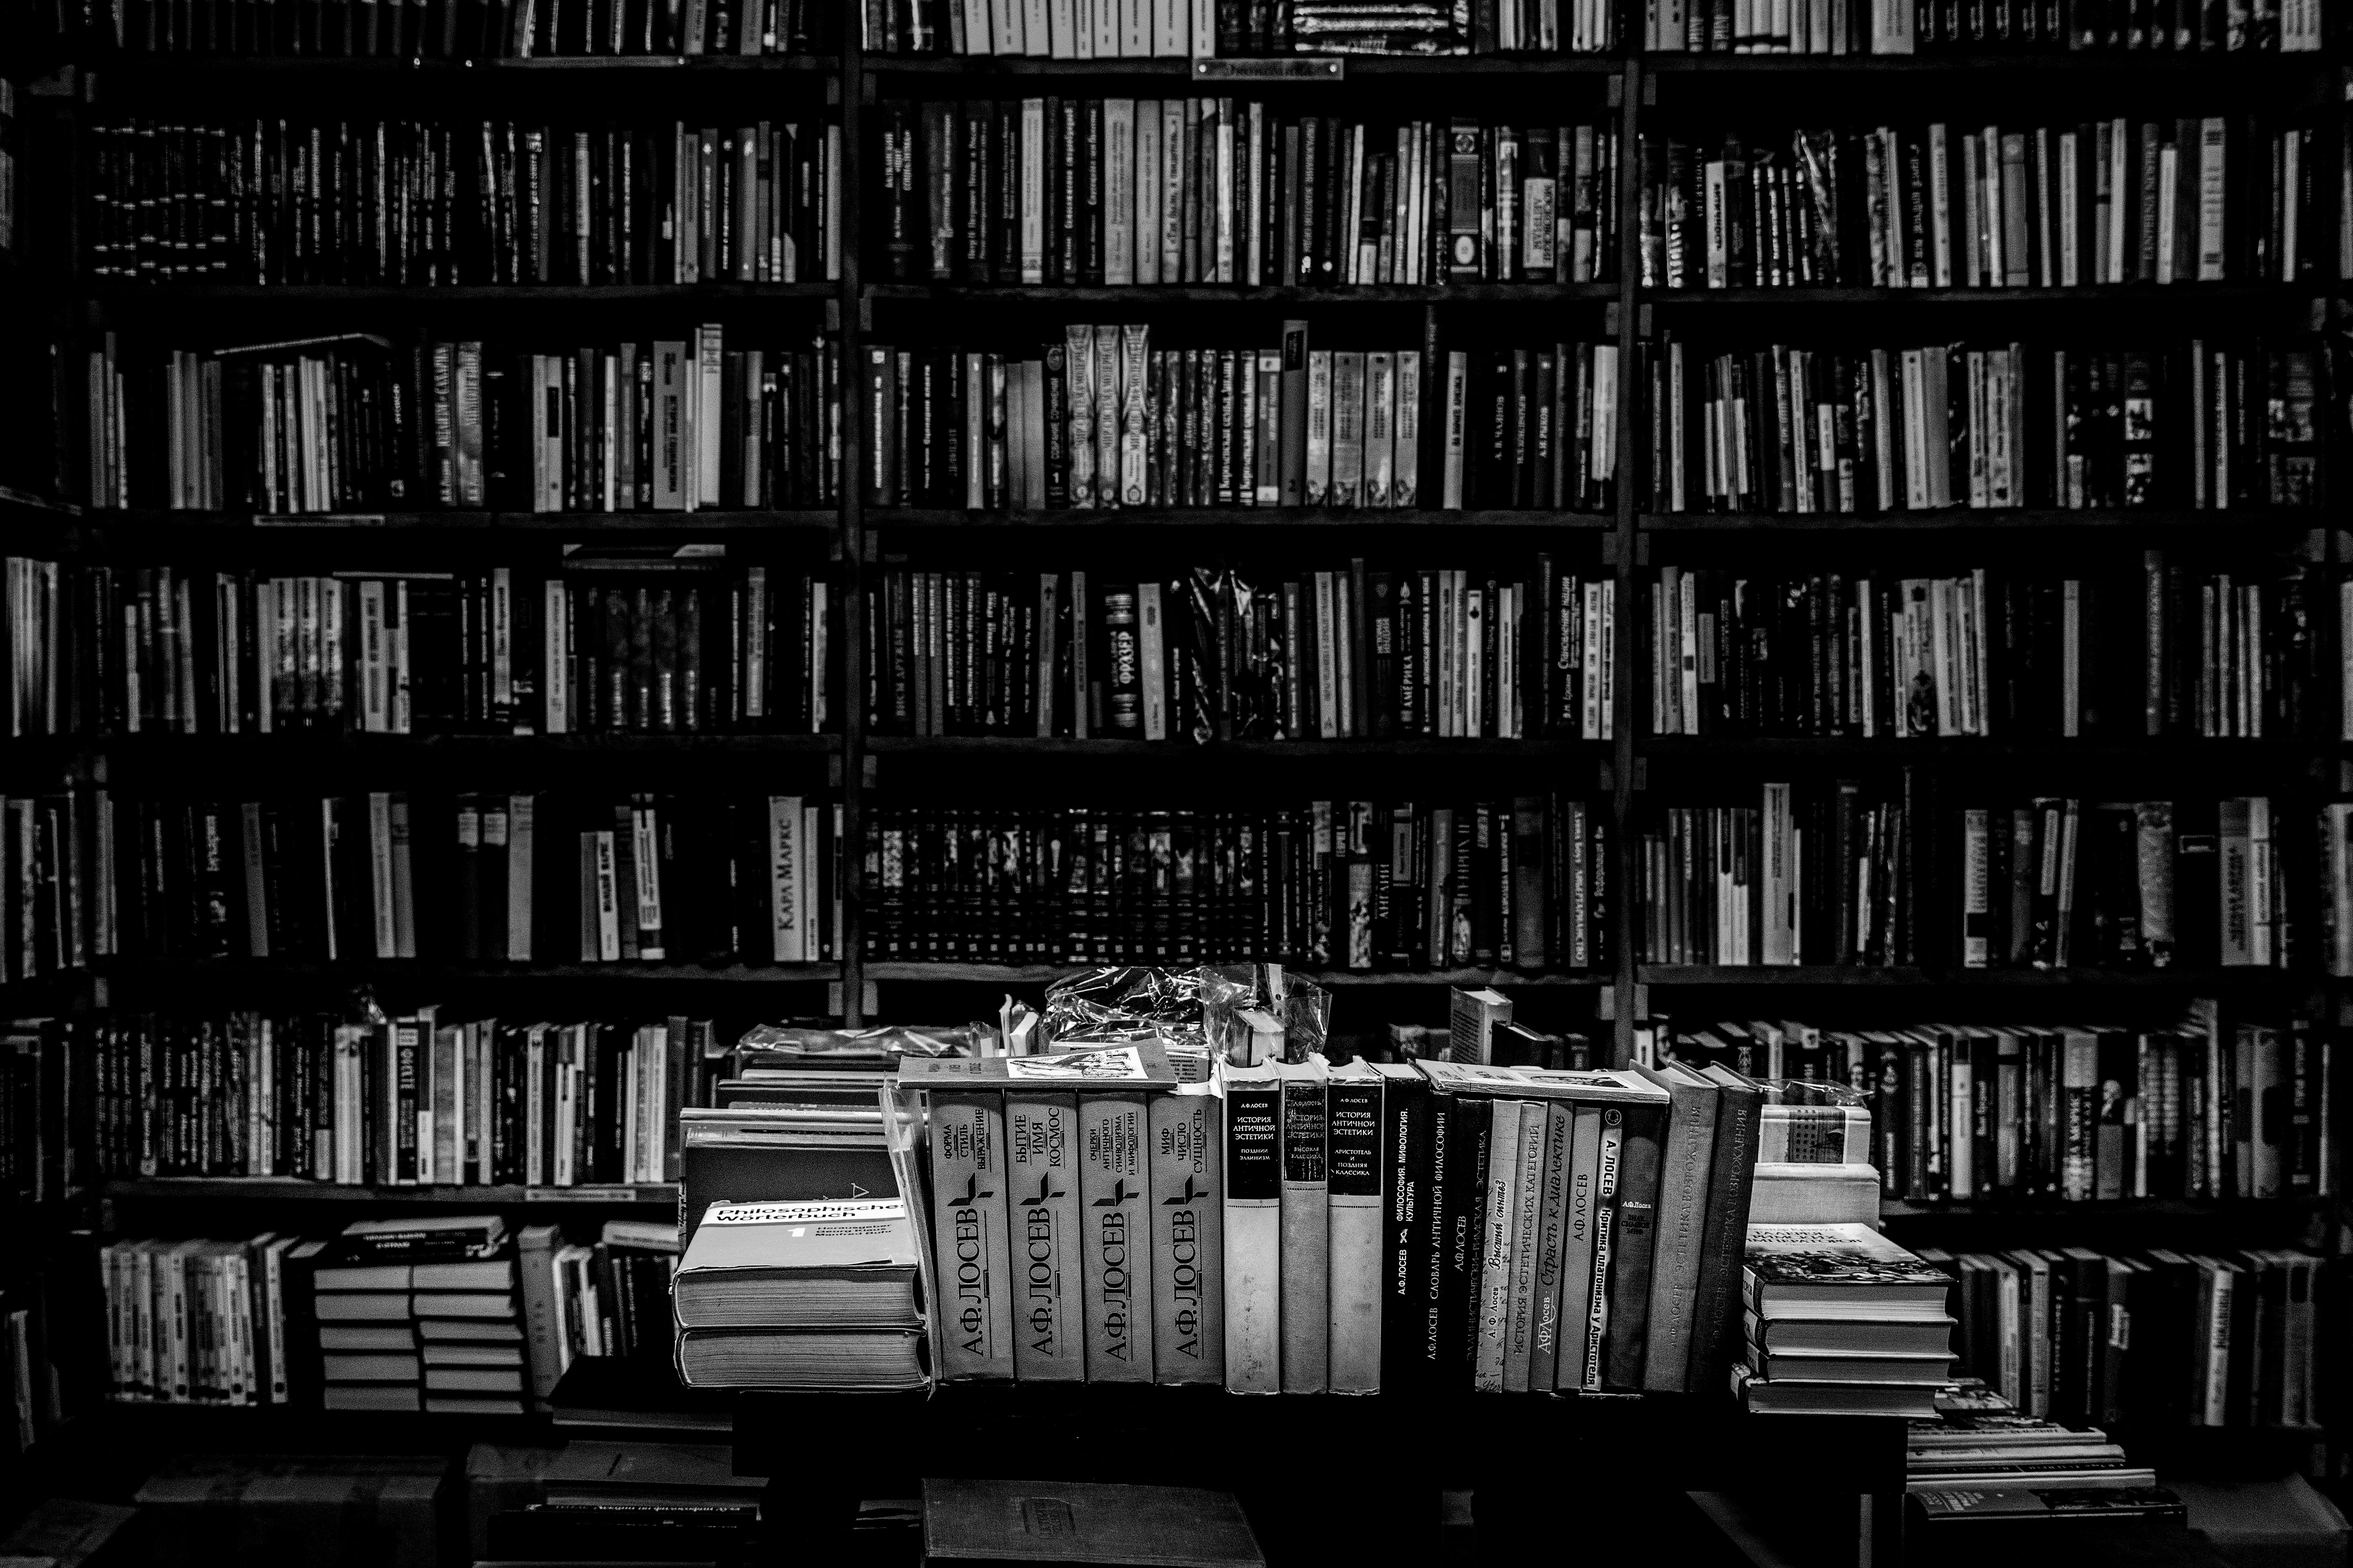
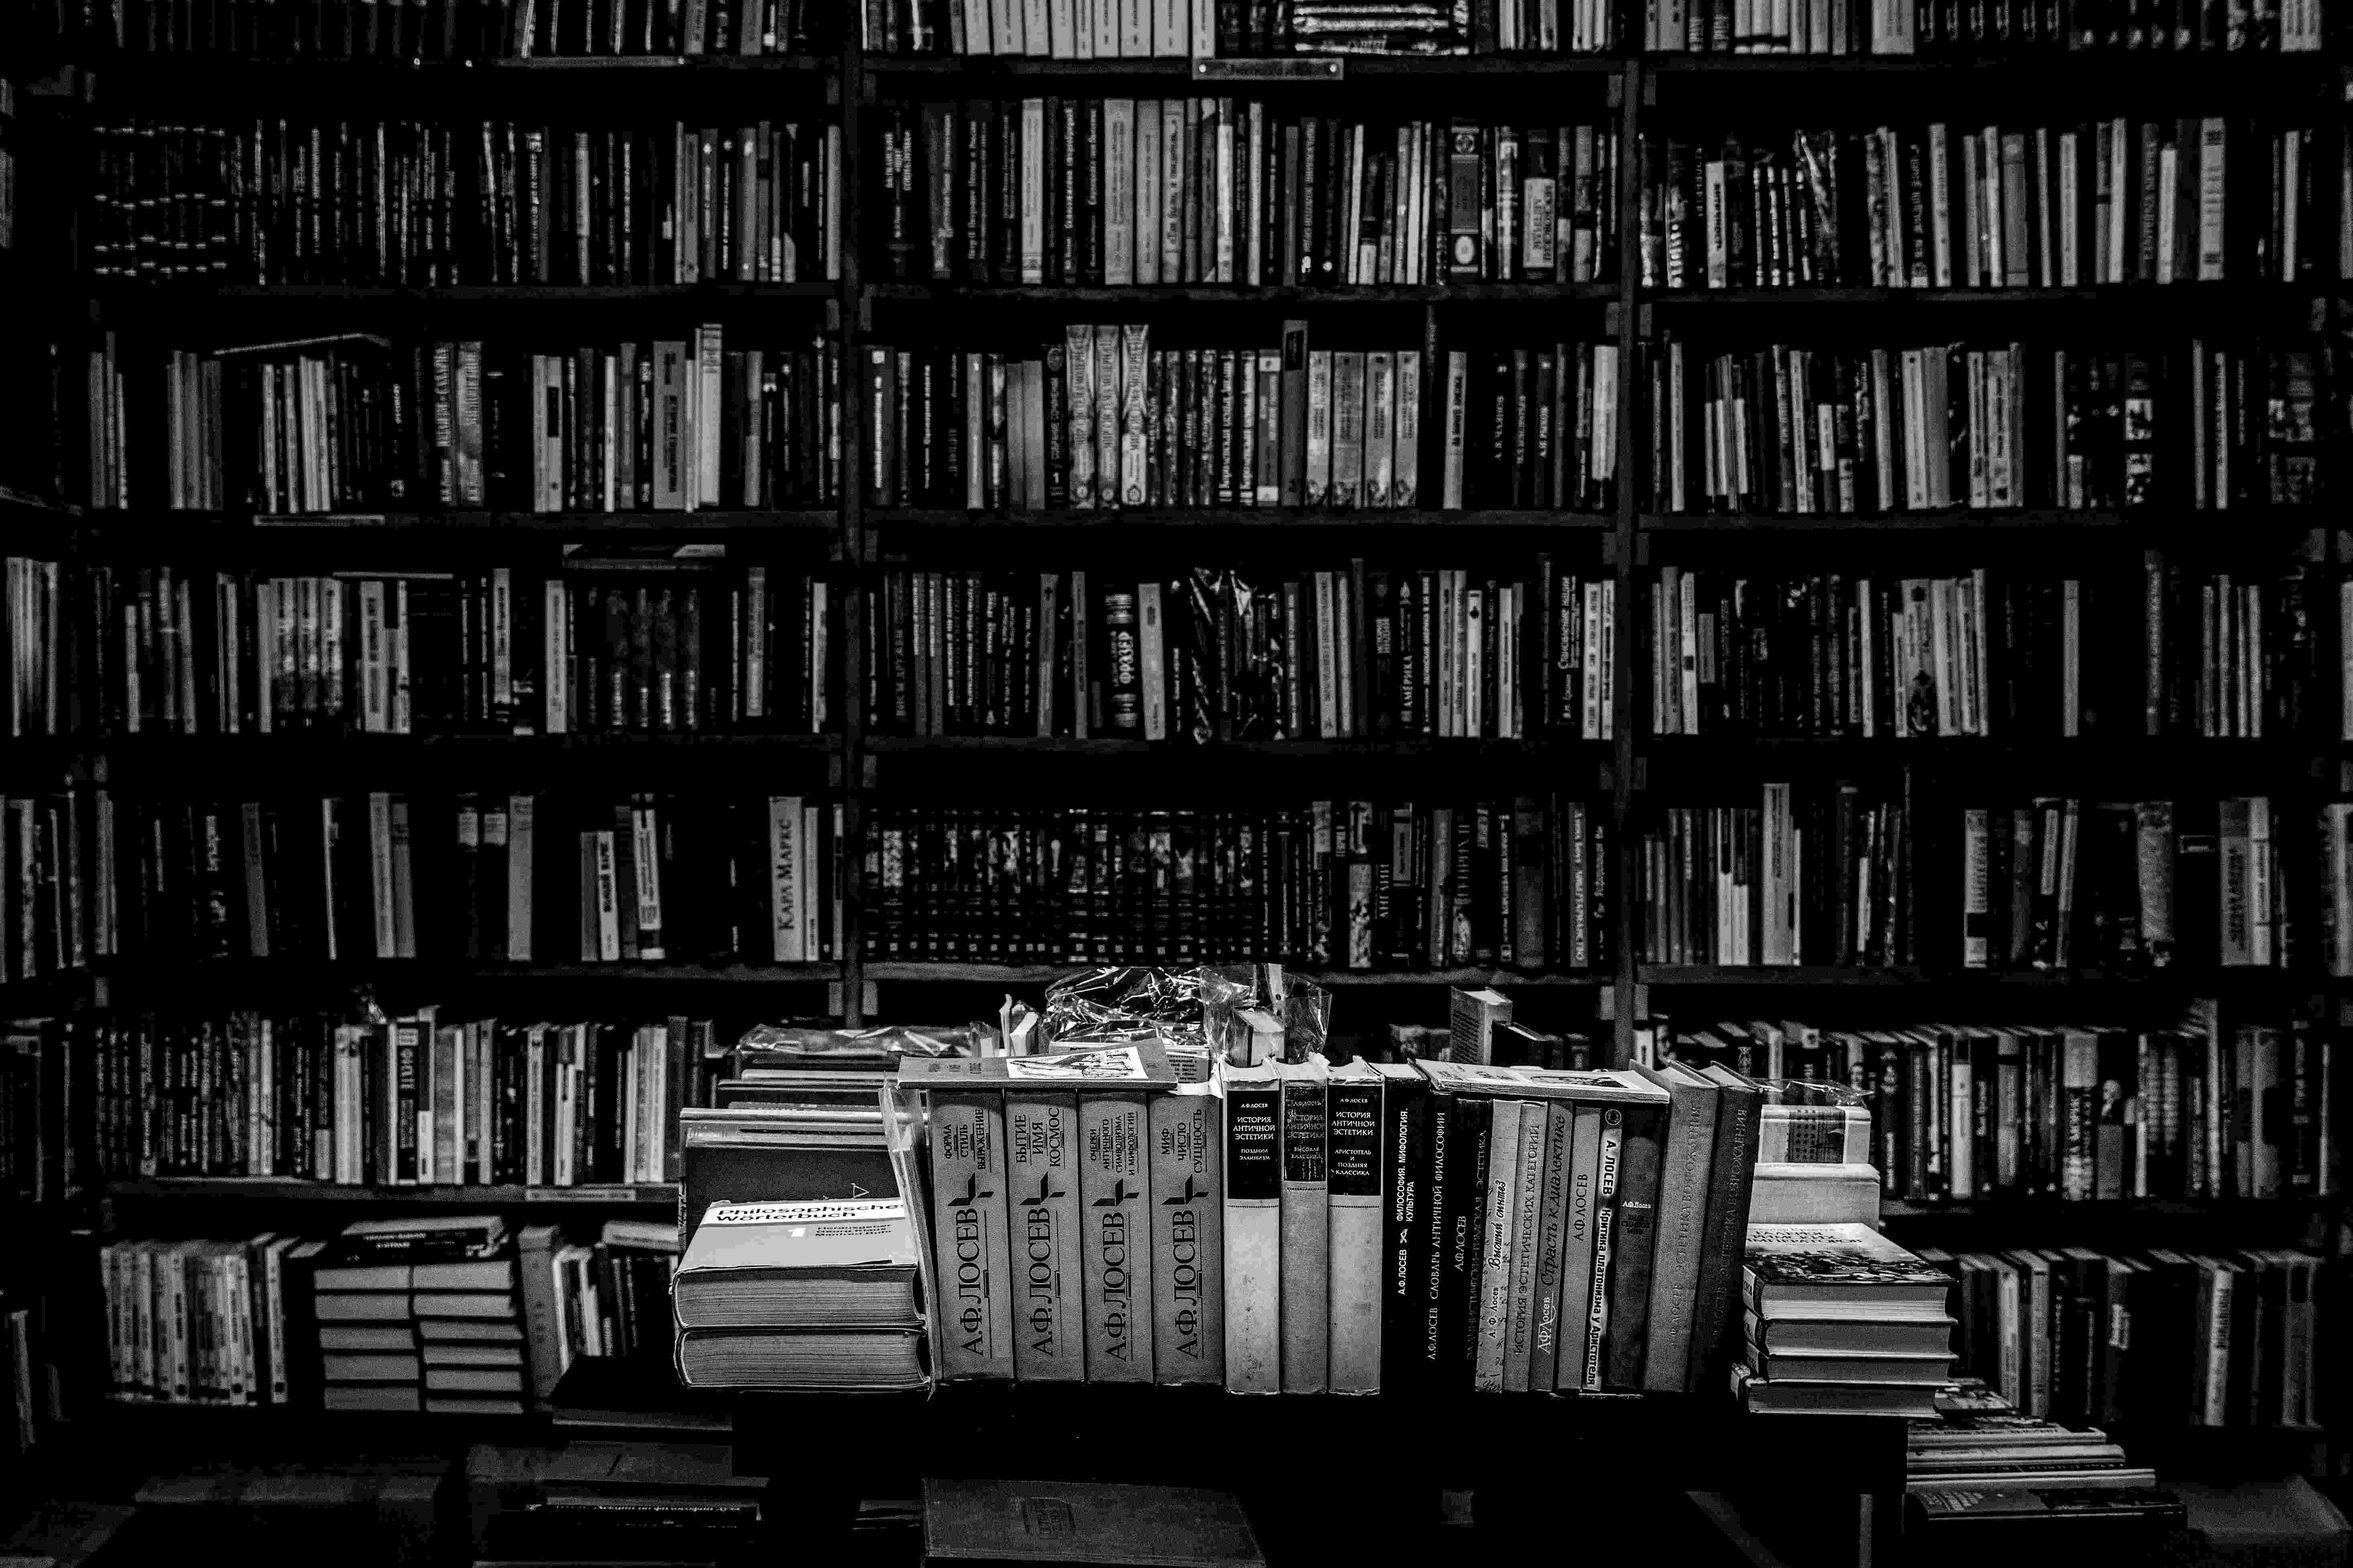
Minimum of memory for img and start worked on 'writings'

diff --git a/css/wri.css b/css/wri.css
@@ -72,66 +72,6 @@ nav ul li a{
   display: none;
 }
 
-/*BACKGROUND*/
-section.back{
-  background: url(../img/bg1.jpg) no-repeat;
-  background-size: cover;
-  height: 40vw;
-  width: 100%;
-  position: absolute;
-  padding: 0;
-  margin-top-top: 90px;
-  margin-top: 80px;
-}
-
-p.blocktext{
-  margin: 0;
-  color: black;
-  background-color: white;
-  font-size: 30px;
-  position: absolute;
-  top: 50%;
-  left: 50%;
-  margin-right: -50%;
-  transform: translate(-50%, -50%);
-  font-family: 'Hind Madurai', sans-serif;
-}
-
-/*CONTENT*/
-.content{
-  display: flex;
-  justify-content: center;
-  flex-shrink: 1;
-  justify-content: space-around;
-  padding-top: 100px;
-}
-
-.blocktext{
-  margin-top: 45%;
-  margin-left: 10%; 
-  padding: 5px; 
-  float: left; 
-}
-
-.blocktext_content{
-  margin-top: 45%;
-  margin-left: 10%; 
-  padding: 5px; 
-  float: left; 
-  width: 500px;
-  font-family: 'Hind Madurai', sans-serif;
-  display: flex;
-}
-
-.buttontext {
-  margin-top: 45%;
-  width: 400px; 
-  float: right; 
-  margin-right: 5%;
-  height: 200px;
-}
-
-
 /*ADAPTIVE FORM*/
 @media (max-width: 952px){
   label.logo{
@@ -197,77 +137,28 @@ p.blocktext{
    }
 
 }
-/*ADAPTIVE FORM*/
 
-@media (max-width: 361){
-  p.blocktext{
-    font-size: 1px;
-}
-}
-/*BUTTONS*/
-
-.connection{
-  color: #000 !important;
-  display: block;
+/*BACKGROUND*/
+section.back{
+  background: url(../img/bg3.jpg) no-repeat;
+  background-size: cover;
+  height: 40vw;
   width: 100%;
-  height: 100%;
-}
-
-.connection:hover{
-  color: #000 !important;
-  text-decoration: none;
-}
-
-.custom-btn {
-  width: 170px;
-  height: 40px;
-  color: #fff;
-  border-radius: 5px;
-  padding: 10px 25px;
-  font-family: 'Lato', sans-serif;
-  font-weight: 500;
-  background: transparent;
-  cursor: pointer;
-  transition: all 0.3s ease;
-  position: relative;
-  display: inline-block;
-  box-shadow:inset 2px 2px 2px 0px rgba(255,255,255,.5),
-   7px 7px 20px 0px rgba(0,0,0,.1),
-   4px 4px 5px 0px rgba(0,0,0,.1);
-}
-   
-.btn-16 {
-  border: none;
-  color: #000;
-}
-
-.btn-16:after {
   position: absolute;
-  content: "";
-  width: 0;
-  height: 100%;
-  top: 0;
-  left: 0;
-  direction: rtl;
-  z-index: -1;
-  box-shadow:
-   -7px -7px 20px 0px #fff9,
-   -4px -4px 5px 0px #fff9,
-   7px 7px 20px 0px #0002,
-   4px 4px 5px 0px #0001;
-  transition: all 0.3s ease;
+  padding: 0;
+  margin-top-top: 90px;
+  margin-top: 80px;
 }
 
-.btn-16:hover {
-  color: #000;
-}
-
-.btn-16:hover:after {
-  left: auto;
-  right: 0;
-  width: 100%;
-}
-
-.btn-16:active {
-  top: 2px;
+p.blocktext{
+  margin: 0;
+  color: black;
+  background-color: white;
+  font-size: 30px;
+  position: absolute;
+  top: 50%;
+  left: 50%;
+  margin-right: -50%;
+  transform: translate(-50%, -50%);
+  font-family: 'Hind Madurai', sans-serif;
 }

diff --git a/wri.html b/wri.html
@@ -1,0 +1,28 @@
+<!DOCTYPE html>
+<html>
+<head>
+	<link rel="shortcut icon" href="img/favicon.ico" type="image/x-icon">
+    <meta charset="utf-8">
+	<title>YKW</title>
+	<meta name="viewport" content="width=device-width, initial-scale=1.0">
+    <link rel="stylesheet" href="css\wri.css">
+    <!--Icons library-->
+    <script src="https://kit.fontawesome.com/a076d05399.js"></script>
+</head>
+<body>
+	<nav>
+       <input type="checkbox" id="check">
+      <label for="check" class="checkbtn">
+        <i class="fas fa-bars"></i>
+      </label>
+       <label class="logo">YKWorkshop</label>
+      <ul>
+        <li><a class="active" href="ykw.html">Інфо</a></li>
+        <li><a class="active" href="">Проекти</a></li>
+        <li><a class="active" href="lib.html">Бібліотека</a></li>
+        <li><a class="picked" href="wri.html">Твори</a></li>
+      </ul>
+    </nav>
+    <section class="back"><p class="blocktext">Словоблудство</p></section>
+</body>
+</html>

diff --git a/ykw.html b/ykw.html
@@ -1,6 +1,7 @@
 <!DOCTYPE html>
 <html lang="ua">
   <head>
+    <link rel="shortcut icon" href="img/favicon.ico" type="image/x-icon">
     <meta charset="utf-8">
     <title>YKW</title>
     <meta name="viewport" content="width=device-width, initial-scale=1.0">
@@ -19,7 +20,7 @@
         <li><a class="picked" href="#">Інфо</a></li>
         <li><a class="active" href="">Проекти</a></li>
         <li><a class="active" href="lib.html">Бібліотека</a></li>
-        <li><a class="active" href="#">Твори</a></li>
+        <li><a class="active" href="wri.html">Твори</a></li>
       </ul>
     </nav>
     <section class="back"><p class="blocktext">Вітаю у майстерні</p></section>
@@ -37,5 +38,6 @@
    	  <button class="custom-btn btn-16"><a href="https://www.linkedin.com/in/yaroslav-kutsela-a243901a3/" class="connection">LinkedIN</a></button>
    </div>
    </div>
+
   </body>
 </html>

diff --git a/css/lib.css b/css/lib.css
@@ -1,6 +1,7 @@
 /*FONTS-CORE*/
 @import url('https://fonts.googleapis.com/css?family=Poppins:400,500,600,700&display=swap');
 @import url('https://fonts.googleapis.com/css2?family=Hind+Madurai:wght@500;600;700&display=swap');
+
 *{
   margin: 0;
   padding: 0;
@@ -77,7 +78,7 @@ nav ul li a{
 /*ADAPTIVE FORM*/
 @media (max-width: 952px){
   label.logo{
-    font-size: 20px;
+    font-size: 15px;
     padding-left: 25px;
     line-height: 80px;
   }

diff --git a/lib.html b/lib.html
@@ -19,7 +19,7 @@
         <li><a class="active" href="ykw.html">Інфо</a></li>
         <li><a class="active" href="">Проекти</a></li>
         <li><a class="picked" href="#">Бібліотека</a></li>
-        <li><a class="active" href="#">Твори</a></li>
+        <li><a class="active" href="wri.html">Твори</a></li>
       </ul>
     </nav>
     <section><p class="blocktext">Читаю всяке</p></section>
